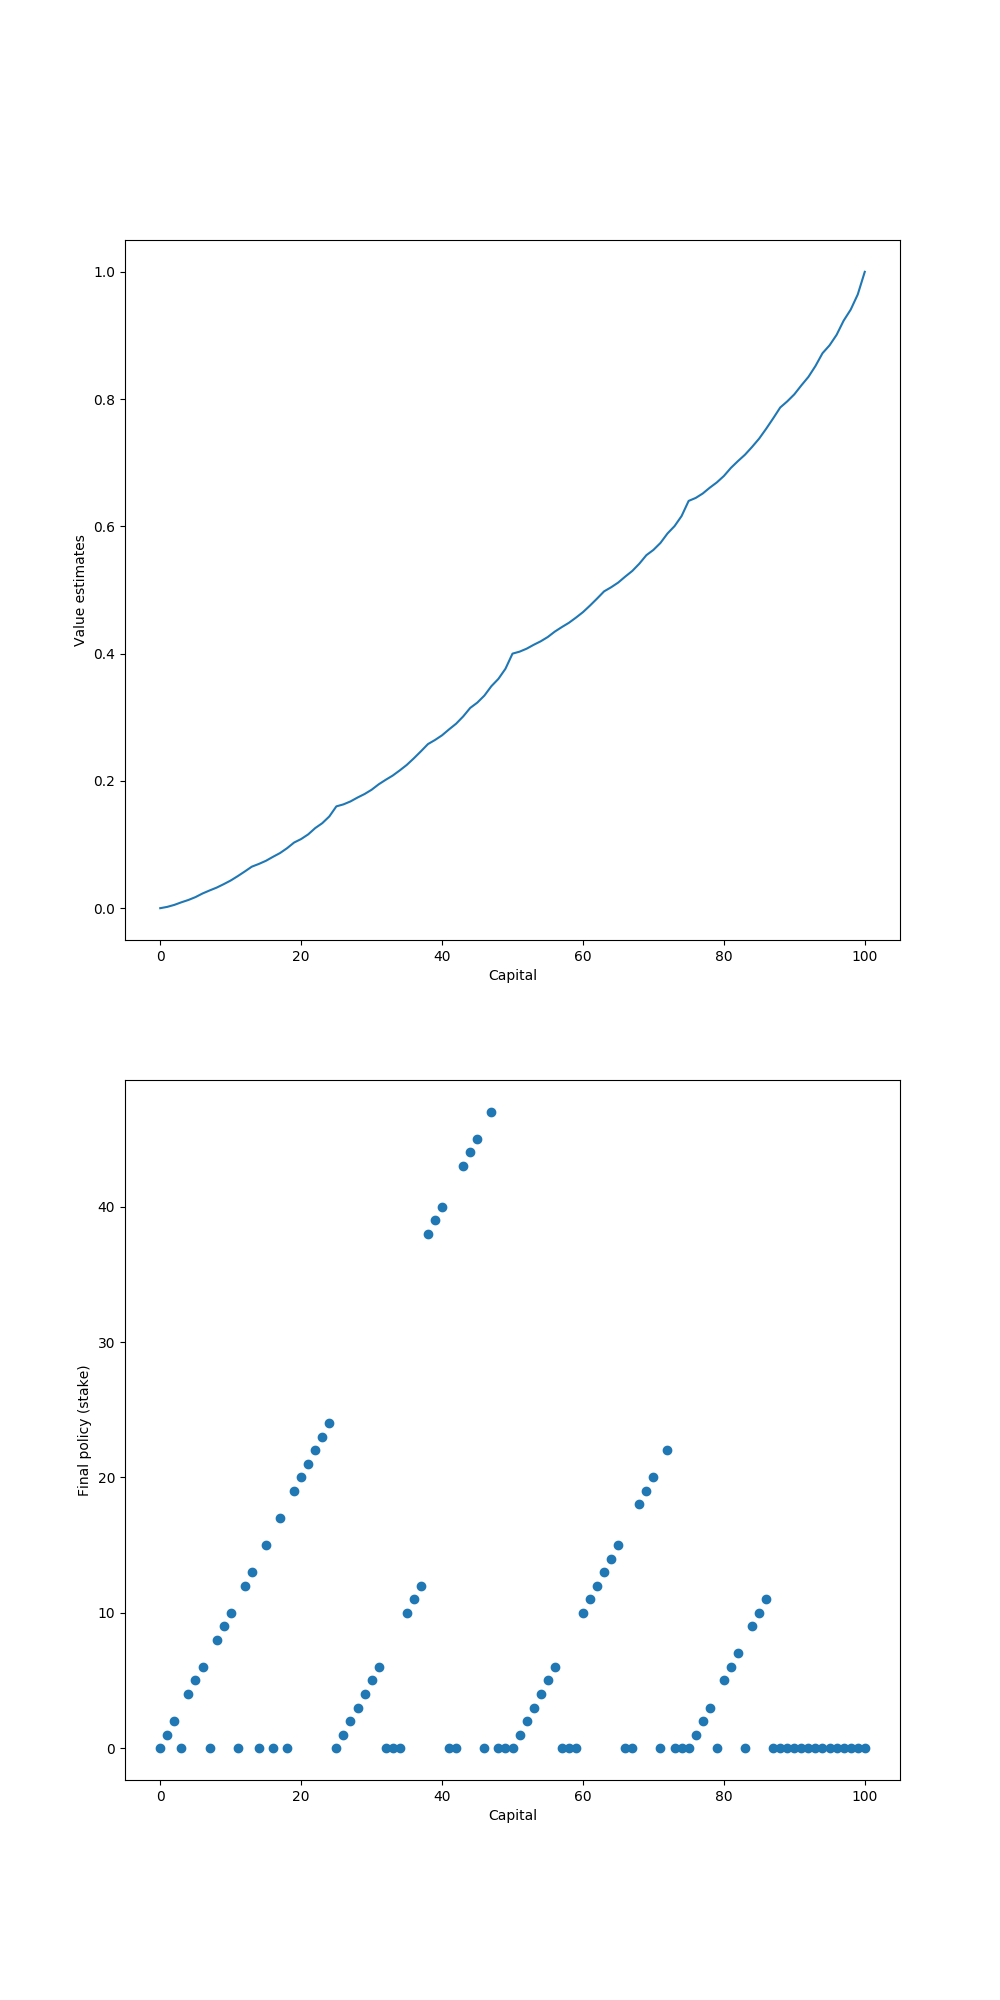
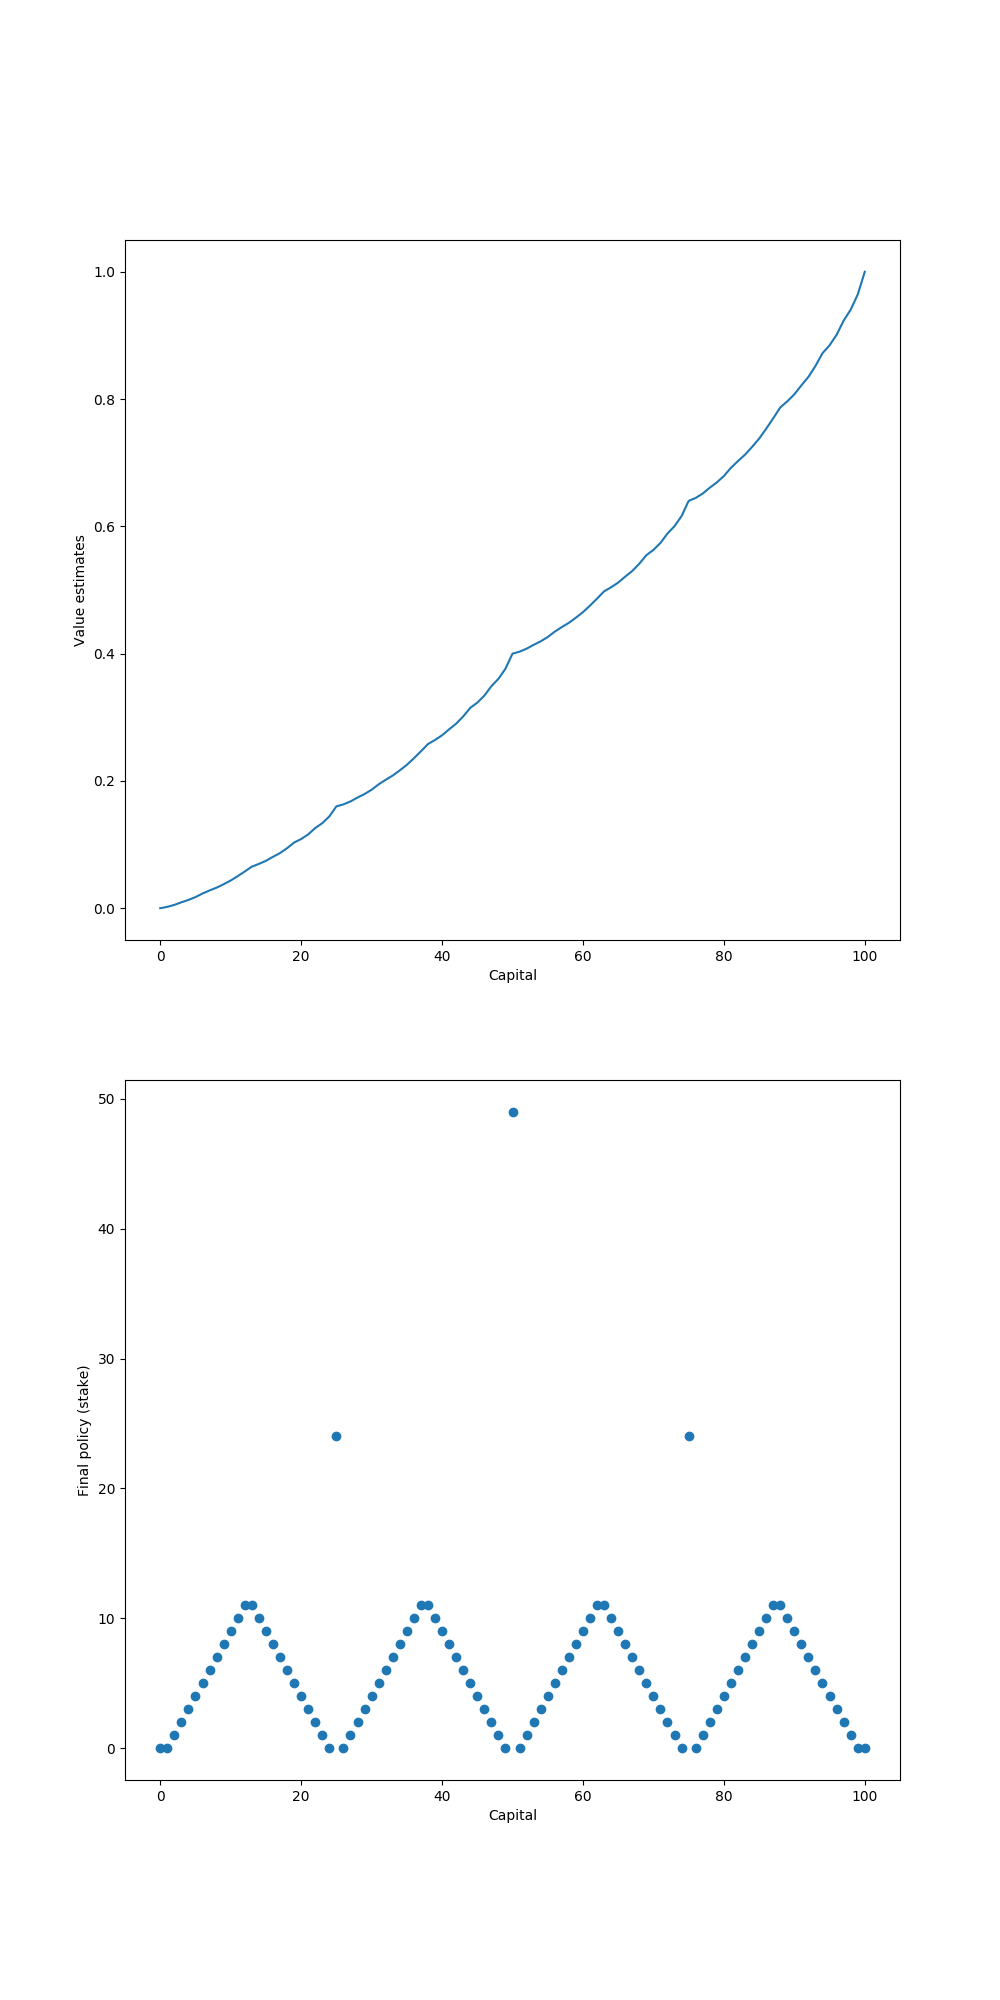
Round to resemble the figure of gambler's problem, thanks @hansweytjens

diff --git a/chapter04/gamblers_problem.py b/chapter04/gamblers_problem.py
@@ -50,8 +50,10 @@ def figure_4_3():
         for action in actions:
             action_returns.append(
                 HEAD_PROB * state_value[state + action] + (1 - HEAD_PROB) * state_value[state - action])
-        # due to tie, can't reproduce the optimal policy in book
-        policy[state] = actions[np.argmax(action_returns)]
+
+        # round to resemble the figure in the book, see
+        # https://github.com/ShangtongZhang/reinforcement-learning-an-introduction/issues/83
+        policy[state] = actions[np.argmax(np.round(action_returns[1:], 5))]
 
     plt.figure(figsize=(10, 20))
 
